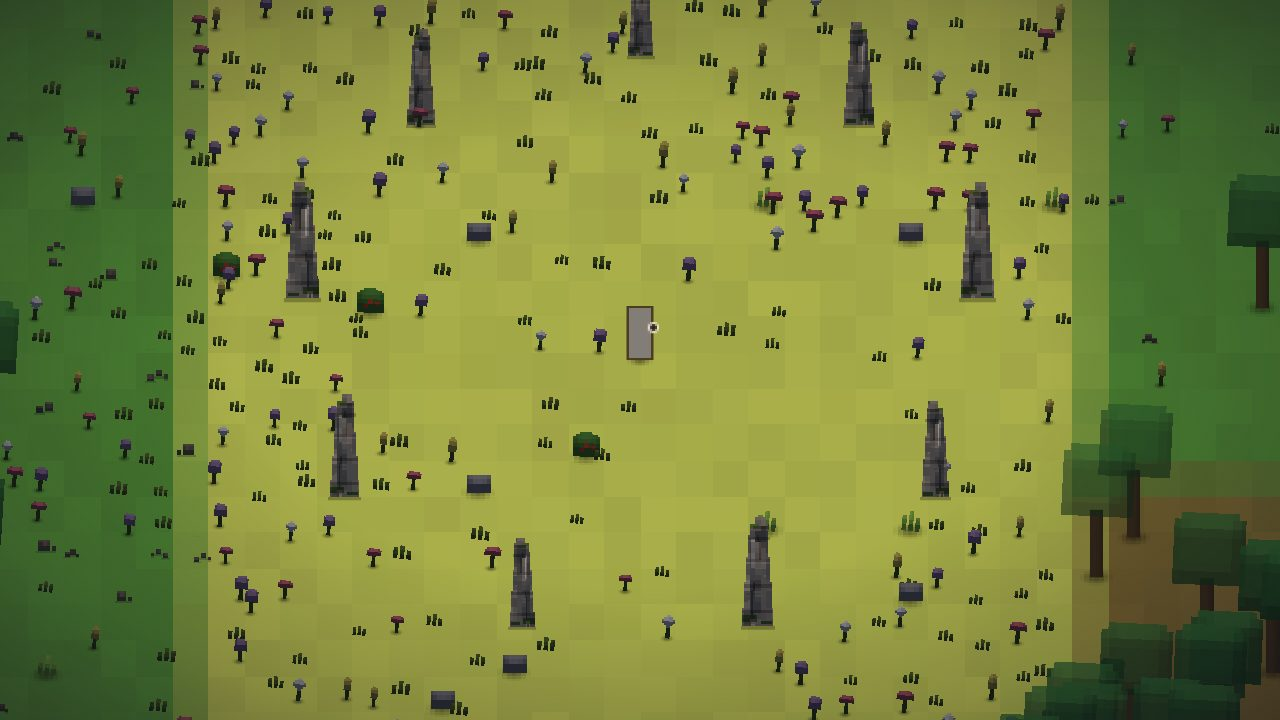
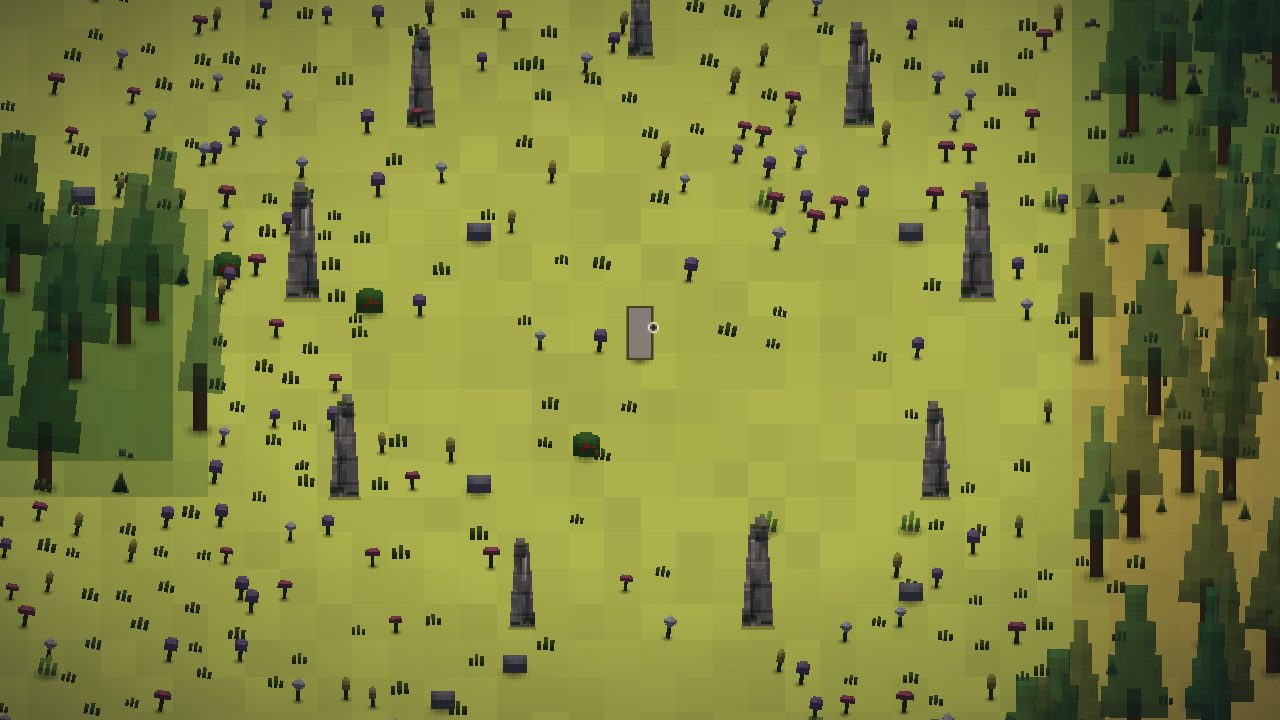
chore(vitrine): le carrousel de l'accueil est rejoué, et l'atelier gagne deux outils
`vitrine.ts` le disait déjà : « le jour où l'art bouge, on RELANCE
l'atelier et on remplace ces cinq fichiers ». Une commande, onze prises,
cinq retenues. Deuxième fois que ce mécanisme sert.

CINQ VUES, PAS SIX — et c'est un refus argumenté. L'atelier tire
désormais le BOIS SEC des crêtes ; la prise n'est pas retenue. Vu de
l'INTÉRIEUR d'un bois, `crownAlpha` efface les cimes : on photographie
des troncs. Un conifère se lit à sa silhouette, donc de l'extérieur — et
le Cercle de pierres en montre une lisière entière et opaque au couchant.

DEUX OUTILS, NÉS DE DEUX ÉCHECS :
  · `--prise <nom>[,<nom>]` — rejouer neuf prises pour en récupérer deux
    coûtait huit minutes ET relançait le dé du flake.
  · Timeout de capture à 90 s au lieu de 30. Il est tombé DEUX fois, sur
    deux scènes différentes : ce n'était pas la scène, c'était
    SwiftShader (aucun GPU ici). Au coup d'après, la prise passait.

Et le balayage du bois sec est FILTRÉ PAR ZONE : `solDe` peint aussi du
pin au nord, et sans filtre l'atelier vise huit cents tuiles trop haut —
erreur déjà commise le matin même sur le scénario `t0`.

`feu-aube` reste la prise de la série précédente : c'est une clairière de
nuit sans un seul conifère, que le correctif ne touche pas. La prise du
feu de la dernière série s'est enlisée sur cette machine ; on ne remplace
pas une image par une capture qu'on n'a pas.

Le journal des décisions rassemble les six entrées de la journée.
[…]

diff --git a/packages/client/src/scenes/ui/vitrine.ts b/packages/client/src/scenes/ui/vitrine.ts
@@ -6,8 +6,18 @@
  * `vitrine` (`pnpm smoke --scenario vitrine --dev`), qui téléporte l'avatar de lieu en lieu,
  * pose l'heure, masque le HUD et les noms de lieux, et déclenche. C'est important pour deux
  * raisons : ① l'accueil ne peut donc pas promettre un jeu qui n'existe pas ; ② le jour où l'art
- * bouge (les arbres ont changé de taille le 2026-07-28), on RELANCE l'atelier et on remplace ces
- * cinq fichiers — la fraîcheur des images est à une commande, pas à une séance de photo.
+ * bouge, on RELANCE l'atelier et on remplace ces cinq fichiers — la fraîcheur des images est à
+ * une commande, pas à une séance de photo.
+ *
+ * ET C'EST ARRIVÉ DEUX FOIS : le 2026-07-28 quand les arbres ont changé de taille, le 2026-07-29
+ * quand ils sont passés de deux sprites à dix (conifères et feuillus, `arbre-peuplement.ts`).
+ * Les cinq images de cette liste sont de la seconde série.
+ *
+ * POURQUOI PAS SIX. L'atelier tire désormais une prise du BOIS SEC des crêtes — et elle n'est
+ * pas retenue. Vu de l'INTÉRIEUR d'un bois, le disque de découvert (`crownAlpha`) efface les
+ * cimes autour du joueur : on photographie des troncs. Un conifère se lit à sa SILHOUETTE, donc
+ * de l'extérieur — et le Cercle de pierres en montre justement une lisière entière, opaque, au
+ * couchant. Allonger le carrousel d'une vue plus faible ne le renforce pas.
  *
  * L'ORDRE EST UNE DRAMATURGIE, pas un tri de dossier : on ouvre sur le feu dans le noir (ce que
  * le jeu a de plus fort à montrer), puis la futaie, les menhirs, la rivière, et le Grand Chêne.
@@ -31,7 +41,7 @@ export interface Vue {
 export const VITRINE: Vue[] = [
   { src: feuAube, alt: "Un feu de camp allumé dans la nuit, ses tentes autour, au milieu d'une clairière" },
   { src: sylveMatin, alt: 'Une futaie dense au soleil levant, champignons et sous-bois' },
-  { src: cercle, alt: 'Un cercle de menhirs dans une prairie fleurie, des cerfs au loin' },
+  { src: cercle, alt: 'Un cercle de menhirs dans une prairie fleurie, une lisière de conifères au loin' },
   { src: gueOr, alt: 'Un gué de galets sur une rivière, à la lumière du soir' },
-  { src: chene, alt: 'Le Grand Chêne, immense, au petit matin' },
+  { src: chene, alt: 'Le Grand Chêne, immense, au petit matin, entouré d’arbres plus jeunes et d’un bouleau au fût pâle' },
 ]

diff --git a/docs/decisions.md b/docs/decisions.md
@@ -598,9 +598,21 @@ Brainstorm de session, cinq décisions actées une à une. Périmètre serré : 
 - 2026-07-28 — [client/persistance] **ON NOMME SA VALLÉE — et le champ prend la place du titre, pas une case de plus.** Demande d'Alexis, dans la foulée de l'écran des vallées. ① **LE NOM EST UNE DONNÉE DU MONDE, pas de la session** : il vit dans `slot{i}:meta`, à côté de la seed, écrit dans la même transaction que la partie et relu au disque à la reprise (rouvrir une vallée nommée ne peut donc pas la rebaptiser). Le ranger à part — un `localStorage` de noms, par exemple — aurait laissé un nom survivre à l'effacement de son monde et aller se recoller au suivant. ② **IL TRAVERSE LA MÊME CHAÎNE QUE LA SEED** : champ → `onCreate` → `WorldSceneData` → `createWorkerHost` → `VeilleeInit` → l'hôte l'écrit dans la méta. Il n'entre PAS dans `/sim` : une vallée ne sait pas comment on l'appelle, et le protocole partagé avec le serveur LAN ne bouge pas. ③ **LE CHAMP EST À LA PLACE DU TITRE** (remarque d'Alexis, qui a corrigé ma première version où il s'ajoutait à droite du libellé « VALLÉE 2 ») : même colonne, même graisse, même taille — **on tape là où on lira**. Et son invite EST le nom de repli, « VALLÉE 2 » en gris : la ligne montre elle-même comment elle s'appellera si on ne la nomme pas, ce qui dit « c'est facultatif » sans l'écrire. Le conseil « même seed, même vallée » a disparu du même geste — il occupait la place et n'apprenait rien qu'on ne comprenne en fondant deux fois. ④ **NETTOYÉ À LA SAISIE, ÉCHAPPÉ AU RENDU — deux gestes distincts, et c'est voulu.** `nettoieNom` (pure, testée) écrase les signes de contrôle (un collage multiligne casserait une ligne à hauteur fixe), rogne les bords et borne à 24 signes ; elle **n'échappe PAS le HTML**, sinon le nom partirait au disque en `&lt;b&gt;` et se lirait en entités partout ailleurs. L'échappement se fait au moment d'écrire dans le DOM, et là seulement — un test le dit noir sur blanc, parce que c'est le genre de règle qu'une passe de « sécurité » bien intentionnée casserait dans six mois. ⑤ **PROUVÉ AU NAVIGATEUR** (scénario `accueil`, étendu) : « La Combe Grise » survit au disque et au rechargement, la case jamais nommée garde son repli « VALLÉE 1 », et `?fresh` sur une vallée nommée rend une case au nom de repli — un monde neuf n'hérite pas du nom de celui qu'il remplace. `check` ✓ · `lint` ✓ · **1282 tests sur 4 suites** ✓ · zéro ligne de `/sim`.
 - 2026-07-28 — [client/UI] **LE MENU PRINCIPAL, ET LES TOUCHES QUI SE RÈGLENT.** Demande d'Alexis : mettre la sélection de monde APRÈS un menu principal (REPRENDRE / JOUER / OPTIONS), avec le rebinding dans les options. ① **UN MOT CHANGÉ À SA PROPOSITION, ET IL COMPTE** : l'entrée 2 s'appelle **JOUER**, pas « Nouvelle partie ». L'écran des vallées n'est pas un assistant de création — c'est là qu'on reprend une vallée qui n'est PAS la plus récente, et là qu'on efface. Avec « Nouvelle partie », reprendre la vallée 3 aurait demandé de cliquer « Nouvelle partie ». Validé par Alexis. ② **« REPRENDRE » N'A PAS LE MÊME POIDS DANS LES DEUX MODES, et c'est structurel** : le solo dit « La Combe Grise — jour 14 · seed 31415 · il y a 2 h » (tout est sur ce disque), le multi ne peut dire que « La Vallée — rejointe il y a 2 h » (le monde vit sur le serveur ; annoncer l'avancement exigerait un aller-retour réseau au chargement du menu, et un accueil qui reste vide quand le serveur est éteint). Asymétrie assumée, signalée avant d'être bâtie. Le bouton **n'apparaît pas du tout** s'il n'y a rien à reprendre : un « REPRENDRE » grisé promet à un nouveau venu ce qu'il ne peut pas avoir. ③ **L'ANNEAU ET LE TITRE NE BOUGENT JAMAIS** d'un écran à l'autre — seul le corps est repeint. Ce n'est pas une économie de code : c'est ce qui fait qu'on navigue dans un même lieu au lieu de sauter entre des écrans qui se remplacent. ④ **LE REBINDING — UNE TOUCHE PAR ACTION** (décision d'Alexis). Les alias livrés (`avancer` = `Z`/`W`/`↑`, qui existent pour couvrir AZERTY, QWERTY et les flèches) **survivent tant qu'on ne touche pas à leur ligne** ; un rebind ramène l'action à la seule touche choisie, « réinitialiser » lui rend les siennes. L'écran affiche donc parfois trois touches et parfois une : c'est EXACT, et afficher toujours une touche mentirait sur ce qui répond. Conflit = **on VOLE** (refuser obligerait à deviner qui détient la touche puis à aller la libérer) ; l'action dépouillée s'affiche « — » en rouge, le travail restant est visible à sa place. **ÉCHAP ne se rebinde ni ne se vole** : c'est la sortie de secours, celle par où l'on répare justement un binding raté. ⑤ **ON CAPTURE `event.key`, JAMAIS `event.code`** : Phaser dispatche sur `keyCode`, qui suit l'ÉTIQUETTE de la disposition et non la position physique. Capturer le code positionnel aurait donné un nom que Phaser ne retrouve jamais — le joueur presse, l'écran affiche « W », et rien ne répond en jeu. C'est l'erreur exacte qui a déjà tué la gauche du ZQSD, en silence, avec les tests au vert ; elle est écrite dans `touches.ts` et gardée par un test. ⑥ **DEUX MENSONGES D'ÉCRAN CORRIGÉS AU PASSAGE.** Le tableau du menu pause était une liste **écrite à la main** : il aurait menti dès le premier rebind, au seul endroit où l'on vient quand on ne sait plus quelle touche fait quoi. Il se dérive maintenant de `keymapEffectif()` et se repeint à chaque ouverture. Et **la sourdine (`N`) vivait EN DUR dans `WorldScene`**, hors de `KEYMAP` : elle est rapatriée dans la table, donc réglable comme les autres — une touche que le jeu écoute et qu'on affiche doit venir d'UNE source. ⑦ **TROUVÉ EN CÂBLANT, ET C'EST À TRANCHER** : `rotateLeft`/`rotateRight` (`A`/`E`) sont déclarées, documentées, annoncées par le menu pause (« Tourner ce qu'on pose ») — et **lues par personne**, sans qu'aucune action de `/sim` ne porte d'orientation de pose. Elles sont donc tenues HORS de l'écran des réglages (une ligne qui ne peut rien faire est précisément l'écran qui ment) et laissées dans `KEYMAP`, où leurs touches restent réservées. Brancher la rotation ou retirer la promesse est une décision d'Alexis. ⑧ **PROUVÉ AU NAVIGATEUR** (scénario `accueil`, étendu) : l'accueil porte ses trois entrées et « REPRENDRE » nomme la partie qu'on vient de quitter ; JOUER donne deux tuiles ; le rebind de `avancer` sur `K` prend, s'écrit au disque, et « réinitialiser » rend `Z · W · ↑`. `check` ✓ · `lint` ✓ · **1307 tests sur 4 suites** ✓ · zéro ligne de `/sim`.
 - 2026-07-28 — [identité] **LE JEU S'APPELLE ASHES.** Décision d'Alexis. Renommé PARTOUT OÙ LE JOUEUR LE LIT — le titre de l'accueil, celui du menu pause, celui de l'écran de chargement, les `<title>` des deux pages, l'en-tête du banc d'écoute et la planche d'art. **ET NULLE PART AILLEURS, délibérément** : ① **les clés de stockage ne bougent pas** (`braises` pour la base IndexedDB, `braises.fog`, `braises.audio.*`, `braises.touches`, `braises.derniere-multi`) — les renommer orphelinerait d'un coup toutes les vallées sauvées, tous les réglages et tout le brouillard, sans que rien ne l'annonce ; un nom de clé est une ADRESSE, pas un titre. ② **`window.__BRAISES__` et le module virtuel `virtual:braises-build-id` non plus** : une porte de test et un identifiant Vite, invisibles au joueur. Les NOMS DE VOLUMES ET DE CONTENEURS Docker restent aussi — ce sont des ressources qui EXISTENT, les renommer orphelinerait les volumes de `node_modules`. ③ **et surtout, le mot « braises » RESTE du vocabulaire de jeu** : un feu qui couve est « en braises », l'état s'affiche ainsi, l'accent de la palette s'appelle `ember`. Renommer le jeu ne renomme pas ce que le français appelle des braises — c'est la distinction qui a guidé toute la passe (on cherche le TITRE, pas la chaîne). Le dépôt et le dossier s'appelaient déjà `ashes`. **SECONDE PASSE, demandée dans la foulée** : les PAQUETS (`@braises/*` → `@ashes/*`, 326 occurrences sur les trois paquets) et le GDD (`braises-gdd.md` → `ashes-gdd.md`, 8 références) ont suivi. **Et un rename de paquet ne se termine PAS au commit** : le conteneur de dev garde ses `node_modules` dans des volumes nommés, donc son lien pointait encore vers `@braises` — repeuplé par la recette du `docker-compose.yml` (§ « AJOUTER UNE DÉPENDANCE », un one-off en écriture, les sources y étant montées `:ro`). Sans ça, `pnpm smoke --dev` serait tombé sur une résolution de module, et le prochain playtest avec lui. `check` ✓ · `lint` ✓ · **1307 tests sur 4 suites** ✓ · build, jeu et chemin `--dev` vérifiés au navigateur après rename.
+- 2026-07-28 — [DA/sim] **LES ARBRES MONTENT À QUATRE TUILES, LE GROS BOIS À SIX — et leur taille cesse d'être une somme accidentelle.** Question d'Alexis (« compare la taille des arbres avec celle du sprite du joueur »), puis son choix entre quatre réglages proposés : **le C**, avec les troncs et les hitbox élargis. ① **LE RELEVÉ D'ABORD, SUR LE RENDU LUI-MÊME** (scénario smoke `echelle`, neuf : il téléporte l'avatar contre un arbre puis contre un gros bois et lit les silhouettes sur les sprites VIVANTS de la scène). Avant : joueur 24 px, mur 32, arbre 48 (**×2,00**), gros bois 56 (**×2,33**). Le joueur et le mur s'accordaient ; les deux arbres, non — et le gros bois, dont le code dit qu'« il ferme le ciel — son identité », payait cette identité **+17 % de hauteur**. Après : arbre **64 px = 4 tuiles (×2,67)**, gros bois **96 px = 6 tuiles (×4,00)**. ② **LE DÉFAUT DE MÉCANISME, QUI ÉTAIT LE VRAI SUJET** : 48 px n'était écrit NULLE PART — c'était `22 + 32 − 16` réparti sur deux fichiers. Preuve qu'il avait déjà dérivé, relevée au navigateur : ce `py − 16` servait aux DEUX arbres alors que leurs fûts n'ont pas la même hauteur, si bien que le houppier mordait **6 px** sur l'un et **8** sur l'autre — pendant que le commentaire du code affirmait 6 pour les deux. `render/arbre-art.ts` (neuf) déclare désormais `{futW, futH, colonneW, houppierS, recouvrementPx}` par type, et TOUT en dérive : hauteur totale, ancrage du houppier, rects peints de `BootScene`, silhouette de la variante `_lit`, colonne de la carte de normales. Même patron que `ACTOR_FOOTPRINTS` (spec client R12) et `EDGE_SPRITE`. ③ **LA SILHOUETTE `_lit` SE DÉDUIT DU DESSIN** au lieu d'être redéclarée à côté : `lit-trees` réécrivait à la main la forme que `BootScene` peignait — deux écritures d'une même forme, qui finissent par différer d'un pixel. C'est l'union des deux premiers rects peints, et un test la balaie pixel par pixel. ④ **LE TRONC S'ÉPAISSIT, ET LA COLLISION SUIT** : 4 → **6 px**, donc `blockHalfSub` **1 → 1,5** (0,375 tuile). **CONSÉQUENCE DE JEU, MESURÉE ET ASSUMÉE** — sur 360 000 tuiles avec le vrai `treeJitter`, la part des paires d'arbres voisines où l'avatar (0,75 × 0,375) se faufile d'est en ouest passe de **50,1 % à 31,3 %** (nord-sud : 93,0 % → 83,1 %). La forêt accroche davantage. 1,5 est le **maximum** que la borne dure autorise (`TREE_JITTER_TILES + h ≤ 0,5` → 0,4875) : épaissir encore exigerait de baisser le décalage d'origine, donc de réaligner les troncs sur la grille — ce que ce nombre existe pour empêcher. Les deux ne peuvent plus monter ensemble, et c'est écrit à côté. ⑤ **LE GROS BOIS GARDE SON CŒUR MINCE (`blockHalfSub` 1), et ce n'est pas un oubli** : la bande bloquante est testée sur des index ENTIERS de sous-tuile ; n'ayant pas de décalage d'origine, son centre est entier, et un demi-entier lui donnerait une bande **décentrée d'un pixel vers l'est** (vérifié). Et à 30 % de gros bois dans la Vieille Sylve, un cœur d'une demi-tuile y rendrait deux voisins infranchissables (couloir 0,5 < avatar 0,75). On se faufile au pied d'un géant : il domine au-dessus, pas aux chevilles. La dérogation est DÉCLARÉE dans la table et le test affirme son SENS (il bloque moins qu'il ne paraît, jamais plus). ⑥ **LE DISQUE DE DÉCOUVERT SUIT LA CANOPÉE** : le houppier ordinaire gagne 31 % de largeur (32 → 42 px), donc `CROWN_R_IN` 6 → **7,9** et `CROWN_R_OUT` 16 → **21**, du même facteur — un disque figé aurait laissé le même nombre de tuiles dégagées sous des cimes une fois et demie plus couvrantes. ⑦ **LA GARDE** (`arbre-art.test.ts`, 9 cas) balaie TOUS les objets verticaux et affirme d'eux une seule chose — la hauteur déclarée est celle qu'ils occupent. Surtout, elle **confronte le dessin à la collision** : la colonne du fût et le `blockHalfSub` de `/sim` disaient la même chose par hasard (4 px ↔ 1 sous-tuile), ils le disent maintenant par contrat. C'est le seul endroit du projet où l'art et la sim se regardent. ⑧ **DEUX MENSONGES DE DOC CORRIGÉS AU PASSAGE** : `SUBTILES_PER_TILE` justifiait 8 par « l'avatar (0,6) passe » et la portée de combat parlait d'un corps de 0,6 — l'avatar fait **0,75** depuis le 27/07. La justification est remplacée par les deux nombres mesurés. Et la spec du 2026-07-10, qui calcule « 48 px = trois tuiles », est marquée **révisée**. ⑨ **ATTRAPÉ PAR UNE GARDE EXISTANTE, et le correctif est meilleur que le contournement** : sortir les tons des arbres dans un module a fait passer `#5c4429` à trois fichiers, et la garde de palette a crié (« une teinte que trois fichiers partagent est un jeton qui s'ignore »). Les tons sont donc allés vivre **avec les mesures**, dans `arbre-art` — une seule écriture, et la variante éclairée ne peut plus dériver de la variante peinte. ⑩ **RESTE OUVERT, ET C'EST À TOI** : la POUSSE saute encore de 16 px à l'arbre adulte d'un coup — le pop passe de ×3 à ×4. Et 1,25 sous-tuile (tronc de 5 px, 40,1 % de paires ouvertes) reste le cran intermédiaire si la forêt accroche trop en playtest. `check` ✓ · `lint` ✓ · **1319 tests sur 4 suites** ✓ (sim 883 + client 397 + serveur 37 + banc 2 ; le total agrégé affiche 1317, la tally de Vitest perdant 2 lignes sur le flaky `onTaskUpdate` — aucun test en échec). Vérifié au navigateur : `pnpm smoke --scenario echelle --dev` lit 4 et 6 tuiles sur le rendu, et le recouvrement du houppier vaut 8 px sur LES DEUX arbres — c'est la dérivation qui le prouve, l'écart 6/8 a disparu.
 
 - 2026-07-28 — [ui/menu] **L'ÉCRAN PRINCIPAL VIT DANS UN RAIL DE 30 %, À GAUCHE.** Le menu n'est plus centré sur la planche 1920×1080 : anneau, titre, baseline, corps et mention de phase tiennent dans une bande de 30 % (576 px, contenu 480 px) collée au bord gauche, et le halo chaud du fond se cale sur l'axe de ce rail — sinon l'anneau sortait de sa propre lueur et les deux tiers vides s'éclairaient pour rien. LA LARGEUR EST LE NOMBRE DE L'ÉCRAN (`--bm-rail`) : tous les internes en découlent, et la changer les rouvre. Ce que 480 px ont obligé à reprendre : les lignes de vallée passent sur DEUX lignes (nom en haut, état + date en bas, ✕ à cheval, hauteur fixe 78 px dans les trois modes — repos, semer, effacer), les deux tuiles de JOUER sont COUCHÉES et empilées (côte à côte, « À PLUSIEURS » ne tenait plus), la table des touches revient à UNE colonne (en deux, il restait 48 px pour nommer l'action) avec un fondu de bas de liste qui dit qu'elle continue, et le bouton de sourdine descend sous la glissière de volume. Vérifié au navigateur sur les six états (accueil avec et sans REPRENDRE, JOUER, vallées vide et pleine, semer, effacer, options).
 
 - 2026-07-28 — [ui/menu] **LE CHAPEAU FLOTTE, LES ENTRÉES SE POSENT AU PIED.** Demande d'Alexis, en deux temps. ① **DEUX MENTIONS RETIRÉES** : la baseline (« Survie · une vallée de 60 jours · l'alignement émerge ») et « Phase LAN ». La première expliquait le jeu à quelqu'un qui l'a déjà lancé ; la seconde nommait un JALON DE DÉVELOPPEMENT dans l'écran d'accueil d'un joueur — une information de roadmap, pas de jeu. Le pied ne garde que `v0.1.0 · ALPHA`, qui, lui, dit quelque chose à qui joue. ② **LA COLONNE SE LIT MAINTENANT EN DEUX TEMPS** : `.bm-colonne` tient TOUTE la hauteur du rail, le corps est ancré AU PIED (72 px du bord) et le chapeau prend tout le reste et se centre dedans. La main va au même endroit d'un écran à l'autre, et l'anneau respire au lieu d'être plaqué en haut. **Le chapeau ne se laisse pas écraser** (`flex-shrink:0`) : sur l'écran des touches — le plus chargé — il remonte au lieu de se comprimer, et c'est la seule chose qui le déplace. Le fichier le disait « ne bouge JAMAIS » : corrigé, la promesse tenue est qu'il SURVIT au changement d'écran, pas qu'il est immobile. ③ **RESTE OUVERT** : le halo chaud du fond est calé à 18 % de la hauteur, valeur d'une époque où l'anneau était toujours à la même place ; il couvre encore les deux positions (15 % sur les touches, 29 % sur l'accueil), mais si le chapeau doit voyager davantage, c'est ce nombre qu'il faudra rouvrir. `check` ✓ · `lint` ✓ · **1317 tests sur 4 suites** ✓. Vérifié au navigateur (`pnpm smoke --scenario accueil`) sur l'accueil, les vallées et les options.
 
 - 2026-07-28 — [ui/menu] **LES 70 % DE DROITE MONTRENT LE JEU — un carrousel de vraies captures.** Demande d'Alexis. ① **CE SONT DES CAPTURES, PAS DES ILLUSTRATIONS**, et le point n'est pas l'honnêteté (encore que) mais la FRAÎCHEUR : elles sortent d'un scénario smoke nommé, `vitrine` (`pnpm smoke --scenario vitrine --dev`), qui téléporte l'avatar, pose l'heure, masque le HUD, le tampon de build et les noms de lieux, puis déclenche en 1280×720 — la résolution native du jeu, la seule où le canvas ne subit ni bande noire ni rééchelonnage. Des images faites à la main seraient périmées le jour où l'art bouge (les arbres ont changé de taille CE MATIN) ; là, on relance une commande. L'atelier finit par se relire lui-même : il revient au menu et capture le montage, parce qu'une image se juge à sa place et pas en plein écran. ② **DEUX PIÈGES DE PRISE DE VUE, tous deux trouvés en gâchant une série.** Fouler un lieu le rend CONNU — donc `poi-layer` lève son nom EN GRAND au milieu de l'image ; on ne peut pas l'éteindre par le jeu (ce serait « oublier » un lieu), donc on éteint les Text du canvas et on leur confisque `setVisible`, sinon la boucle de rendu les rallume à la frame suivante. Et il faut le faire sur LES DEUX SCÈNES : les noms vivent dans WorldScene, les conseils d'onboarding dans UIScene. ③ **L'HEURE EST LE VRAI LEVIER, LE LIEU AUTANT.** `ambientTint` a un alpha NUL entre 10 h et 15 h : une prise de midi est littéralement sans ambiance. Mais une plaine rase à l'heure dorée reste une plaine rase — ce qui porte une image ici, c'est la DENSITÉ (futaie, menhirs, feu). La première planche visait des lieux remarquables (cascade, sanctuaire, belvédère) et a rendu six relevés cadastraux ; la seconde vise ce qui encombre le cadre. **Constat à assumer : le jeu de JOUR est plat et vert — ce sont les prises de nuit au feu qui le vendent.** ④ **LE FONDU EST UN CROISEMENT, ease-in-out, en CSS pur** — pas de minuterie JS, donc rien à accorder avec l'horloge Phaser. Deux nombres (pas 8 s, fondu 1,6 s) et TOUT en découle : le retard de chaque vue, la durée du cycle, les images clés. **`opacity:0` dans la règle de base est portant** : pendant son retard, un élément affiche son état de BASE et non l'image clé 0 % — sans cette ligne les cinq vues s'affichent ensemble. ⑤ **LE HALO PASSE PAR-DESSUS L'IMAGE, et l'ordre EST le correctif** : sous elle, il s'arrêtait net au bord du rail — lueur chaude à gauche, photo à droite, une couture verticale que l'œil lit avant de lire le menu. Au-dessus, à 8 % d'ambre, il ne change rien à ce qu'on voit et traverse la jointure. ⑥ **LA MENTION DE VERSION EST PASSÉE SUR UNE PHOTO** : `#3a3a44` allait sur du noir tenu, pas sur une image ; elle prend la recette du tampon de build (crème très baissée + ombre portée), lisible sur clair comme sur sombre. ⑦ 344 Ko pour cinq images, importées et non écrites en dur (Vite les empreinte et les copie ; une URL à la main casserait au premier build), la première en `eager` et les autres en `lazy`. `check` ✓ · `lint` ✓ · **1317 tests sur 4 suites** ✓. Vérifié au navigateur en 1920×1080, sur deux vues du carrousel.
+
+- 2026-07-29 — [worldgen/T0] **UN MICRO-RELIEF MUET COMMANDE LES PRÉS BAS — ce qui se lit comme logique, c'est ce qui est DÉRIVÉ.** Grief d'Alexis sur la carte rendue : *« l'enchaînement des biomes ne suit aucune logique et produit un patchwork de polygones sans inspiration (sauf les marais, assez logiquement posés) ; idem pour l'eau — on a juste posé l'eau sur le patchwork de biome. »* ① **LA MESURE QUI A TRANCHÉ** (BFS multi-source depuis l'eau, distance moyenne par terrain de la Racine, en tuiles) : marais **3**, roselière **8**, puis bosquet 70/85/96, herbe 83/93/92, fleuraie 76/92/103 sur les seeds 1/7/42 — **et l'ordre s'INVERSE d'une seed à l'autre** (seed 42 : l'herbe est plus près de l'eau que le bosquet). C'est la signature de l'indépendance, pas une impression. Et l'exception d'Alexis désignait la cause : le marais et la roselière étaient les **seuls terrains du T0 posés par une règle dérivée** (`frangeDeMarais` relit l'eau déjà peinte) ; tout le reste sortait de deux `fbm2` seuillés à graines différentes (`solDe`), plus un tirage-rejet pour l'eau (`rectPosable` ne demandait que « dans la Racine, marchable, à ≥ 6 tuiles d'une frontière »). Trois hasards, aucune cause commune, donc **aucune variable d'ordre** — il n'y avait rien à enchaîner. ② **LE CHOIX D'ALEXIS, parmi quatre** : un **micro-relief muet** (`racine-relief.ts`), plutôt qu'un champ d'humidité seul, une trame du pays d'avant, ou une correction de l'eau seule. Chaîne : *relief → l'eau va dans les creux → l'humidité rayonne de l'eau → la végétation suit l'humidité*. C'est la seule option qui explique aussi **pourquoi le lac est là** — le relief est la CAUSE, l'humidité l'EFFET. ③ **IL EST MUET** : jamais rendu, jamais dans `WorldMap` ni `SimState`, vivant le temps de la génération seule. La carte reste PLATE (pivot RimWorld du 2026-07-17), le graphe de zones reste roi (§1 de `worldgen.md` : le renversement n'est pas rouvert — le relief ne décide que de la CHAIR d'une zone, jamais de la structure). C'est ce que R36 laissait déjà ouvert. ④ **LES SEUILS SONT DES QUANTILES, PAS DES VALEURS** — `fbm2` a une moyenne stable mais une distribution qui bouge d'une seed à l'autre ; seuiller en absolu ferait sortir un jour une Racine boisée au tiers. La part de chaque terrain est donc un CONTRAT (bosquet ~13 %, fleuraie ~13 %), lu dans un histogramme d'entiers — jamais un tri, dont la stabilité n'est pas la même partout. ⑤ **TROIS ÉCRITURES DU DRAINAGE, et les deux échecs valent la leçon.** (a) « chaque lac vers son plus PROCHE voisin » : des traits qui traversent un vallonnement — de l'eau qui monte, défaut INVISIBLE tant que les lacs étaient jetés au hasard (sans haut ni bas, aucune liaison ne peut avoir l'air fausse). (b) « vers l'eau la plus proche strictement plus basse » : l'eau ne remonte plus, mais le tracé reste une polyligne VERS UN POINT — deux lacs à la même latitude sortaient joints par un canal droit de 250 tuiles. **Un plus court chemin n'est pas un cours d'eau.** (c) La bonne : on ne choisit pas une destination, **on cherche le COL LE PLUS BAS** — un plus-court-chemin de GOULOT (Dijkstra, `coût(v) = max(coût(u), altitude(v))`) depuis le déversoir du lac. Physiquement juste (un lac déborde par sa selle la plus basse, puis épouse le fond du vallon) et le tracé serpente comme le pays le veut. Instrumentée avant réécriture : la version gloutonne trouvait de l'eau **1 fois sur 6** — une marche gloutonne sur un champ lisse SERPENTE le long d'une courbe de niveau, elle ne cherche rien. ⑥ **DEUX RÉGLAGES PAYÉS À L'ŒIL, écrits parce qu'ils ne se devinent pas.** Le bois se collait à l'eau à **12 tuiles** de moyenne quand l'herbe était à 110 : un liseré sombre autour de chaque lac, pas un bois — une variable d'ordre trop obéissante ne fabrique pas de la logique, elle fabrique une **courbe de niveau**. Le creux domine donc l'eau (0,66 / 0,34), la portée s'allonge (112 tuiles) et le bruit monte (0,42) : l'ORDRE vient du champ, la TEXTURE vient du bruit. Et les lacs sortaient FILANDREUX à deux octaves — la ligne de niveau d'un champ lisse près d'un minimum est une ellipse (compacte), mais l'octave fine y creuse des rigoles que l'inondation enfile : **on inonde la forme, pas le grain** (`altLarge`). ⑦ **LA GARDE QUI A ATTRAPÉ LA FAUTE RÉELLE** : A6 rouge sur la seed 2026 — un lac noyait la bouche du seuil 4 sur quarante tuiles d'eau profonde, la sente n'avait plus où se poser. Les cuvettes inondées vont là où le terrain descend, et le terrain descend parfois vers une porte ; l'ancien `rectPosable` l'interdisait par accident (marge aux frontières), plus la nouvelle. D'où `MARGE_SEUIL` (84 tuiles) — et c'est **A16 qui était en jeu**, pas seulement A6 : *un seuil ne nourrit rien, pas même à boire*. ⑧ **PÉRIMÈTRE ASSUMÉ** : la Racine SEULE (le grief la visait ; Alexis a corrigé en ce sens). Les onze autres zones gardent leurs deux bruits indépendants — la même recette leur est applicable telle quelle, zone par zone, quand on décidera. Résultat mesuré : l'ordre marais 3 → roselière 8 → bosquet ~16 → herbe ~100 → fleuraie ~160 est désormais **le même sur toutes les seeds**. `pnpm check`, `pnpm lint` et les 881 tests de /sim verts, A12 (déterminisme au bit près) et A5 (test destructif) compris.
+
+- 2026-07-29 — [worldgen/T0] **LES BOSQUETS DE CRÊTE — un bois SEC sur les bosses, et c'est le lac à l'envers.** Demande d'Alexis dans la foulée du micro-relief : *« il faudrait quelques patchs de forêt déposés de manière équilibrée loin des points d'eau »*, puis son choix de l'essence parmi trois : **un bois sec distinct, pin et mélèze**, plutôt que le même bosquet ailleurs ou de simples arbres épars. ① **LA MESURE A CORRIGÉ L'HYPOTHÈSE ÉVIDENTE, et c'est ce qui a rendu la réponse juste.** J'ai d'abord supposé une pénurie de bois : faux, mesuré — au pire on est à **52 tuiles** d'un arbre (une écran et demi), personne n'est bloqué. Le vrai défaut est ailleurs : la **fleuraie ne porte pas un seul arbre** (0 sur 86 000 tuiles), parce que `arbresDeLaRacine` sème épars sur l'herbe, dense en futaie, et s'arrête là (« ce sol garde sa nature »). Ce trou EXISTAIT AVANT le chantier ; la fleuraie n'étant qu'un moucheté de 5 %, il était invisible. En la faisant passer à 13 % **en plaques cohérentes**, j'ai transformé un défaut invisible en **endroit** — un endroit sans une seule verticale, où rien ne casse l'horizon. C'est le principe unique de `t0-exploration.md` qui tombait, précisément là. *Un défaut ancien peut n'avoir de conséquence qu'à partir d'une certaine taille : ce n'est pas le mécanisme qui a changé, c'est son échelle.* ② **LE PLACEMENT EST DÉRIVÉ, PAS SEMÉ — et c'était le seul vrai risque du chantier.** Saupoudrer des patchs avec une graine de plus aurait réintroduit exactement le « posé » que la veille venait de retirer, et Alexis l'aurait vu du premier coup d'œil comme la première fois. On prend donc le **sommet sec** de chaque case d'une grille grossière (la grille garantit le « de manière équilibrée » ; le relief choisit où dedans), on pose un chapeau, on garde ce qui dépasse : **même champ que les lacs, algorithme retourné** — l'eau inonde par en dessous, le bois coiffe par au-dessus. ③ **« LOIN DE L'EAU » NE S'ÉCRIT PAS EN TUILES** : le sommet doit tomber dans la bande sèche de l'humidité, laquelle DÉRIVE de la distance à l'eau. Une seule règle, donc rien qui puisse diverger le jour où l'une des deux bouge. Mesuré : pin **176-211** tuiles de l'eau, mélèze 182-193, contre **24-27** pour le bosquet humide. ④ **DEUX BOIS QUI RACONTENT DEUX CHOSES.** Pin et mélèze étaient réservés aux paliers > 0 (`HAUT_BOIS`) ; ils descendent sur les crêtes de la Racine. Feuillu sombre au fond humide, conifère clair sur la bosse : la logique installée la veille (humide = couvert, sec = ouvert) reste lisible, et le bois sec ne se lit pas comme son rattrapage. Et c'est vrai du paysage — dans une vallée habitée, le fond plat se fauche pour le foin, le bois ne survit que sur les bosses que personne ne pouvait dégager. ⑤ **LA LIGNE SANS LAQUELLE CE N'EST QU'UN APLAT DE COULEUR** : le pin et le mélèze rejoignent la branche FUTAIE de `arbresDeLaRacine`. `terrainAdmet` laissait bien le pin porter des arbres — mais à la densité COMMUNE du semis (un nœud toutes les 36 tuiles) : on aurait peint un bois qui n'en est pas un. ⑥ **UNE FAUTE QUI VALAIT SA MESURE** : la première écriture exigeait que CHAQUE cellule du chapeau soit dans la bande sèche. Les bosquets sortaient minuscules et hachés — la bande sèche est un quantile à 16 %, donc un ensemble **moucheté** (le bruit de lisière l'émiette à dessein), et l'on demandait à une colline d'être faite de confettis. La sécheresse qualifie le **lieu** (le sommet, une fois) ; la **forme** vient du relief. ⑦ **CONSÉQUENCE DE JEU, signalée avant d'être bâtie** : jusqu'ici bois et eau coïncidaient, donc tout bon emplacement de village était sur l'eau. Les bosquets secs **décollent les villages de la rivière**. Souhaitable à mon sens, mais c'est du peuplement, pas du décor — à juger en playtest. ⑧ **LA GARDE (A14) PORTE SUR LA DEMANDE, PAS SUR LE MOYEN** : ≥ 5 bois de conifère d'au moins 400 tuiles, et une distance moyenne à l'eau valant **plus du triple** de celle du bosquet humide. Si le placement change de mécanisme demain, le critère reste le bon. Mesuré : 7 à 10 bois de cette taille par seed, la plupart à 36 de côté (le plafond d'inondation). **Et un compte de composantes n'est pas un compte de bosquets** — j'ai d'abord publié « 14 », qui était le nombre de COMPOSANTES : les sentes traversent les bois (une route de trois tuiles en coupe un en deux) et le murage de frontière en rogne un bord, d'où des fragments de 56 à 346 tuiles qui bordent tous une route ou une arête. Ce n'est pas un défaut — un chemin qui traverse un bois est ce qu'on veut — mais il faut compter ce qu'on croit compter, d'où le plancher de 400 tuiles dans la garde. Composition finale de la Racine : herbe 54-55 %, bosquet humide 11,5-12,5 %, fleuraie 12,5-13 %, conifère ~1,8 %.
+
+- 2026-07-29 — [DA/client] **DIX ARBRES AU LIEU DE DEUX — et c'est le SOL puis la ZONE qui disent lequel pousse ici.** Demande d'Alexis en deux temps : d'abord des sprites de conifères (« fais-moi un artefact avant de coder » — proposition rendue, quatre silhouettes, mesures et coûts), puis *« implémente toutes les variations en prenant en compte une densité logique de tel ou tel arbre par zone »*. ① **CE QUE LE RENDU A TRANCHÉ, ET QU'AUCUN RAISONNEMENT N'AURAIT DONNÉ.** (a) **Deux étages ne font pas un conifère** : la version économique tenait dans les cinq rects existants (silhouette = les deux premiers, ce qu'affirme E6) et sortait en **CHAMPIGNON**, un chapeau étroit sur un socle large. D'où `silhouette: number` — la forme prend autant de rects qu'il lui en faut. (b) **En jeu, seules la SILHOUETTE et le FÛT portent la variation** : `crownAlbedo` ne garde que l'union des rects de silhouette, à UN ton plat — la lumière, l'éclat et l'ombre PEINTS sont jetés par la variante `_lit`, qui est le rendu par défaut. Mes premières variantes ne différaient que par ces trois-là : distinctes sur la planche peinte, **identiques en jeu**. D'où des proportions franchement différentes (haute et étroite, large et basse, petite et haut perchée) et un **fût pâle** pour le bouleau — la variation la moins chère et la plus visible de la table. (c) **Le fût nu se règle par UN nombre** : `futH − recouvrementPx`, et rien d'autre. Premier conifère : 26 px de tronc sous la ramure, soit 1,6 tuile — un balai. À 30/14 il tombe à 16 px, une tuile : un conifère porte bas. ② **UN INVARIANT NEUF, RÉVÉLÉ PAR L'IMAGE : le houppier ne doit pas FLOTTER.** La silhouette doit descendre jusqu'à `(houppierS − recouvrementPx) / houppierS` dans sa boîte ; en deçà, le feuillage s'arrête au-dessus du sommet du fût et il reste un liseré de vide. Le premier bouleau le faisait — **1,5 px de trou**, que ni le compilateur ni aucune garde existante ne voit. C'est dérivable, donc c'est désormais une garde (V3, sur TOUTES les variantes, `tree` et `old_tree` compris). *Une règle qu'on ne découvre qu'en regardant mérite d'être écrite le jour où on la découvre.* ③ **UNE VARIANTE EST UNE PEAU, PAS UN NŒUD — et c'est ce qui rend le changement gratuit.** `/sim` ignore qu'elles existent : rien dans `NODE_DEFS`, rien dans le protocole, rien dans le flux RNG. C'était nécessaire, pas élégant : E3 fait `expect(ARBRES[t].demiTroncSub).toBe(NODE_DEFS[t].blockHalfSub)` pour CHAQUE clé de `ARBRES` — un conifère dans cette table aurait exigé un `NODE_DEFS.pine`, donc un type de nœud neuf. Les variantes vivent donc dans `VARIANTES`, et une garde (V6) affirme que chacune déclare la collision du nœud qu'elle habille. ④ **LE PEUPLEMENT SE LIT, IL NE SE REDÉCIDE PAS** (`arbre-peuplement.ts`). Deux entrées, dans cet ordre : le **SOL** décide de la FAMILLE (une tuile de pin ou de mélèze porte un conifère, où qu'elle soit — le worldgen a déjà tranché où pousse quoi), puis la **ZONE** décide du MÉLANGE de feuillus. Chaque ligne se justifie par le thème de sa zone : le **hêtre** fait les futaies fermées de la Sylve (et le bouleau en est ABSENT — un pionnier ne pousse pas sous un couvert qui ne laisse rien passer, son absence dit l'âge du bois mieux qu'un ton sombre) ; le **saule** et le **bouleau** tiennent la Tourbière ; le **bouleau** domine le Versant Brûlé et la Combe aux Ruines, parce que c'est l'arbre qui reprend ce qui a brûlé et ce qu'on a quitté. Tirage : `hash2(tx, ty, seed)`, pur, sans état, le même arbre est toujours le même. ⑤ **LE GROS BOIS N'A PAS DE VARIANTES, délibérément.** Sa silhouette est une information de JEU — il donne le gros bois, ressource structurante de la Sylve — pas une texture. La décliner brouillerait la seule chose qu'il dit. Même raison pour le plafond : **aucun feuillu ne dépasse 4 tuiles** (garde V1), le gros bois garde le créneau des 6. ⑥ **DEUX BUGS ATTRAPÉS EN CHEMIN, tous deux invisibles au type-checker.** `nodeArtGap` reconnaissait les troncs par leur NOM (`nd-tree_trunk`, `nd-old_tree_trunk`) : les huit nouveaux seraient tombés dans le gap des BLOCS et leur ombre de contact serait remontée de deux pixels — le bug exact qu'Alexis avait vu sur les arbres et la fibre, revenu par la porte de derrière. La règle se lit maintenant sur la FORME de la clé. Et `varianteArbre` ne bornait pas son index : hors carte, elle lisait `undefined` et retombait sur le mélange de zone — attrapé par sa propre garde. ⑦ **LA GÉNÉRALISATION EST PROUVÉE RÉTRO-COMPATIBLE, pas supposée** : V7 affirme rect par rect que `houppierRectsDe`/`futRectsDe` rendent EXACTEMENT `houppierRects`/`futRects` sur `tree` et `old_tree`, et V7ter compare les deux silhouettes **pixel par pixel** (zéro écart). L'ordre des tons est dérivé et non écrit — à `silhouette: 2` il rend l'ordre historique par construction. ⑧ **CE QUE JE N'AI PAS TOUCHÉ, et pourquoi** : `CROWN_R_IN/OUT` (le disque de découvert) est un rayon GLOBAL autour du joueur, pas une propriété d'arbre ; le conifère est 52 % plus large que le feuillu, donc le disque pourrait sembler serré dans un bosquet — c'est un calibrage de playtest, pas un bug, et on ne retouche pas une constante testée sur une spéculation. ⑨ **DIFF STRICTEMENT ADDITIF sur `arbre-art.ts`**, qui appartient au chantier « arbres hauts » d'une autre session et n'est pas commité (inchangé depuis 13 h) : tout ce qui précédait garde sa signature et son comportement au pixel près, et mes gardes vivent dans un fichier à moi (`arbre-variantes.test.ts`) pour qu'une fusion reste triviale. `check` ✓ · `lint` ✓ · **1 341 tests sur les quatre suites** (client 416, dont 19 neufs) · `pnpm smoke --scenario t0 --dev` au vert, captures regardées.
+
+- 2026-07-29 — [DA/menu] **LE CARROUSEL DE L'ACCUEIL EST REJOUÉ — et l'atelier gagne deux outils qu'il n'avait pas.** Demande d'Alexis, dans la foulée des dix arbres : régénérer les images du menu principal en conséquence. ① **C'ÉTAIT PRÉVU, ET ÇA A MARCHÉ COMME PRÉVU.** `vitrine.ts` disait déjà, en toutes lettres : *« le jour où l'art bouge, on RELANCE l'atelier et on remplace ces cinq fichiers — la fraîcheur des images est à une commande, pas à une séance de photo. »* Une commande (`pnpm smoke --scenario vitrine --dev`), neuf prises, cinq retenues. C'est la deuxième fois que ce mécanisme sert (la première : la taille des arbres, la veille) ; il tient sa promesse. ② **CINQ VUES, PAS SIX — et c'est un refus argumenté.** L'atelier tire désormais une prise du BOIS SEC des crêtes ; elle n'est PAS retenue. Vu de l'INTÉRIEUR d'un bois, `crownAlpha` efface les cimes autour du joueur : on photographie des troncs. **Un conifère se lit à sa SILHOUETTE, donc de l'extérieur** — et le Cercle de pierres, lui, en montre une lisière entière et opaque au couchant, parce que le joueur en est loin. Allonger le carrousel d'une vue plus faible ne le renforce pas. La prise reste dans la planche : elle servira le jour où l'on cadrera depuis la lisière. ③ **LE NOUVEAU SE VOIT DANS TROIS DES CINQ**, sans qu'aucune image ne soit « la démo » : les conifères en lisière du Cercle, le fût pâle d'un bouleau près du Grand Chêne, et deux autres au feu de l'aube. Une vitrine montre le jeu, pas un diff. ④ **DEUX OUTILS AJOUTÉS À L'ATELIER, tous deux nés d'un échec.** (a) **`--prise <nom>[,<nom>]`** : rejouer neuf prises pour en récupérer deux coûtait huit minutes ET relançait le dé du flake ; on tire maintenant ce qu'on veut. Le montage final est sauté sous filtre — il juge la vitrine, pas une prise isolée. (b) **Timeout de capture à 90 s** au lieu des 30 s par défaut : il est tombé DEUX fois, sur deux scènes différentes (la futaie au couchant, puis le bois sec) — donc ce n'est pas la scène, c'est SwiftShader qui met parfois plus de trente secondes à rendre une frame dense pour la relecture. Sur cette machine sans GPU, c'était la cause, pas le symptôme : au troisième essai, avec le délai large, la prise est passée du premier coup. ⑤ **LE BALAYAGE DU BOIS SEC EST FILTRÉ PAR ZONE**, et pas par confort : `solDe` peint aussi du pin dans les zones du nord, et sans le filtre l'atelier vise huit cents tuiles trop haut — l'erreur avait déjà été commise le matin même sur le scénario `t0`, et repérée à l'ORDONNÉE de la capture. On ne la refait pas deux fois dans la même journée. 352 Ko pour les cinq (inchangé à 8 Ko près). `check` ✓ · `lint` ✓.
+
+
+- 2026-07-29 — [DA/client] **LE CONIFÈRE ÉTAIT PLUS LARGE QU'UN FEUILLU — et c'est pour ça qu'un bosquet sortait en NAPPE.** Constat d'Alexis sur le jeu : *« c'est moi ou les pins ont un rendu pas ouf ? »* Non, ce n'était pas lui. ① **DEUX FAUTES QUI S'ADDITIONNAIENT, et la première est un contresens de DA.** (a) Le houppier DESSINÉ du pin faisait **56 px** contre **31** pour l'arbre ordinaire — **78 % plus large**. J'avais construit une pyramide haute en oubliant de la resserrer, alors que l'étroitesse EST l'identité d'un conifère. (b) Mes trois pins partageaient le MÊME ton — or l'albédo `_lit` est UNIFORME : ni liseré ni ombrage ne sépare deux cimes qui se touchent. ② **C'EST LA DENSITÉ QUI RÉVÈLE, et mon premier peuplement de test mentait.** `ARBRES_FORET_PAS = 5` donne ~0,2 arbre par tuile, soit **un arbre toutes les 2,2 tuiles (36 px)**. Des cimes de 56 px à 36 px d'écart se recouvrent forcément ; à ton identique, elles se SOUDENT. Mon banc d'essai les espaçait de 60 px — il montrait de jolis sapins et cachait le seul défaut qui comptait. *Un peuplement de test qui n'est pas à la densité du jeu ne teste pas le jeu.* ③ **LE CORRECTIF** : la base du pin passe de 0,88 à **0,46** de sa boîte, et chaque variante reçoit sa famille — pin moyen, vieux pin plus SOMBRE (et sa cime devient CASSÉE, plutôt que volumineuse : c'est par là qu'un vieux conifère se signe), sapin jeune plus clair et vif, mélèze olive. Vérifié hors ligne À LA VRAIE DENSITÉ avant de toucher au code : les conifères étroits restent lisibles **même quand ils se touchent**, là où les cubes des feuillus, eux, se soudent. ④ **CE QUI N'EST PAS UN DÉFAUT, et qu'il faut savoir** : vu de l'INTÉRIEUR d'un bois, `crownAlpha` efface les cimes autour du joueur — il reste une forêt de troncs. C'est le disque de découvert qui fait son travail, il s'applique aux feuillus pareil, et il est antérieur à ce chantier. Mais une cime plus étroite laisse voir plus de tronc : si l'intérieur paraît clairsemé en playtest, le bouton est `CROWN_R_IN/OUT` — celui que j'avais refusé de toucher sur spéculation, et qui a désormais une raison. ⑤ **CE QUE ÇA DIT DE LA MÉTHODE** : la planche de sprites, le peuplement de test et même la capture in-game D'UN SEUL ARBRE ne montraient rien. Il a fallu **agrandir ×4 une capture de jeu à la bonne densité** pour voir la nappe. Le grief d'Alexis a été plus rapide que trois de mes vérifications — et c'est la troisième fois de la journée qu'une faute ne se voit qu'à l'image. `check` ✓ · 19 gardes vertes · carrousel du menu rejoué avec les sprites finaux.
